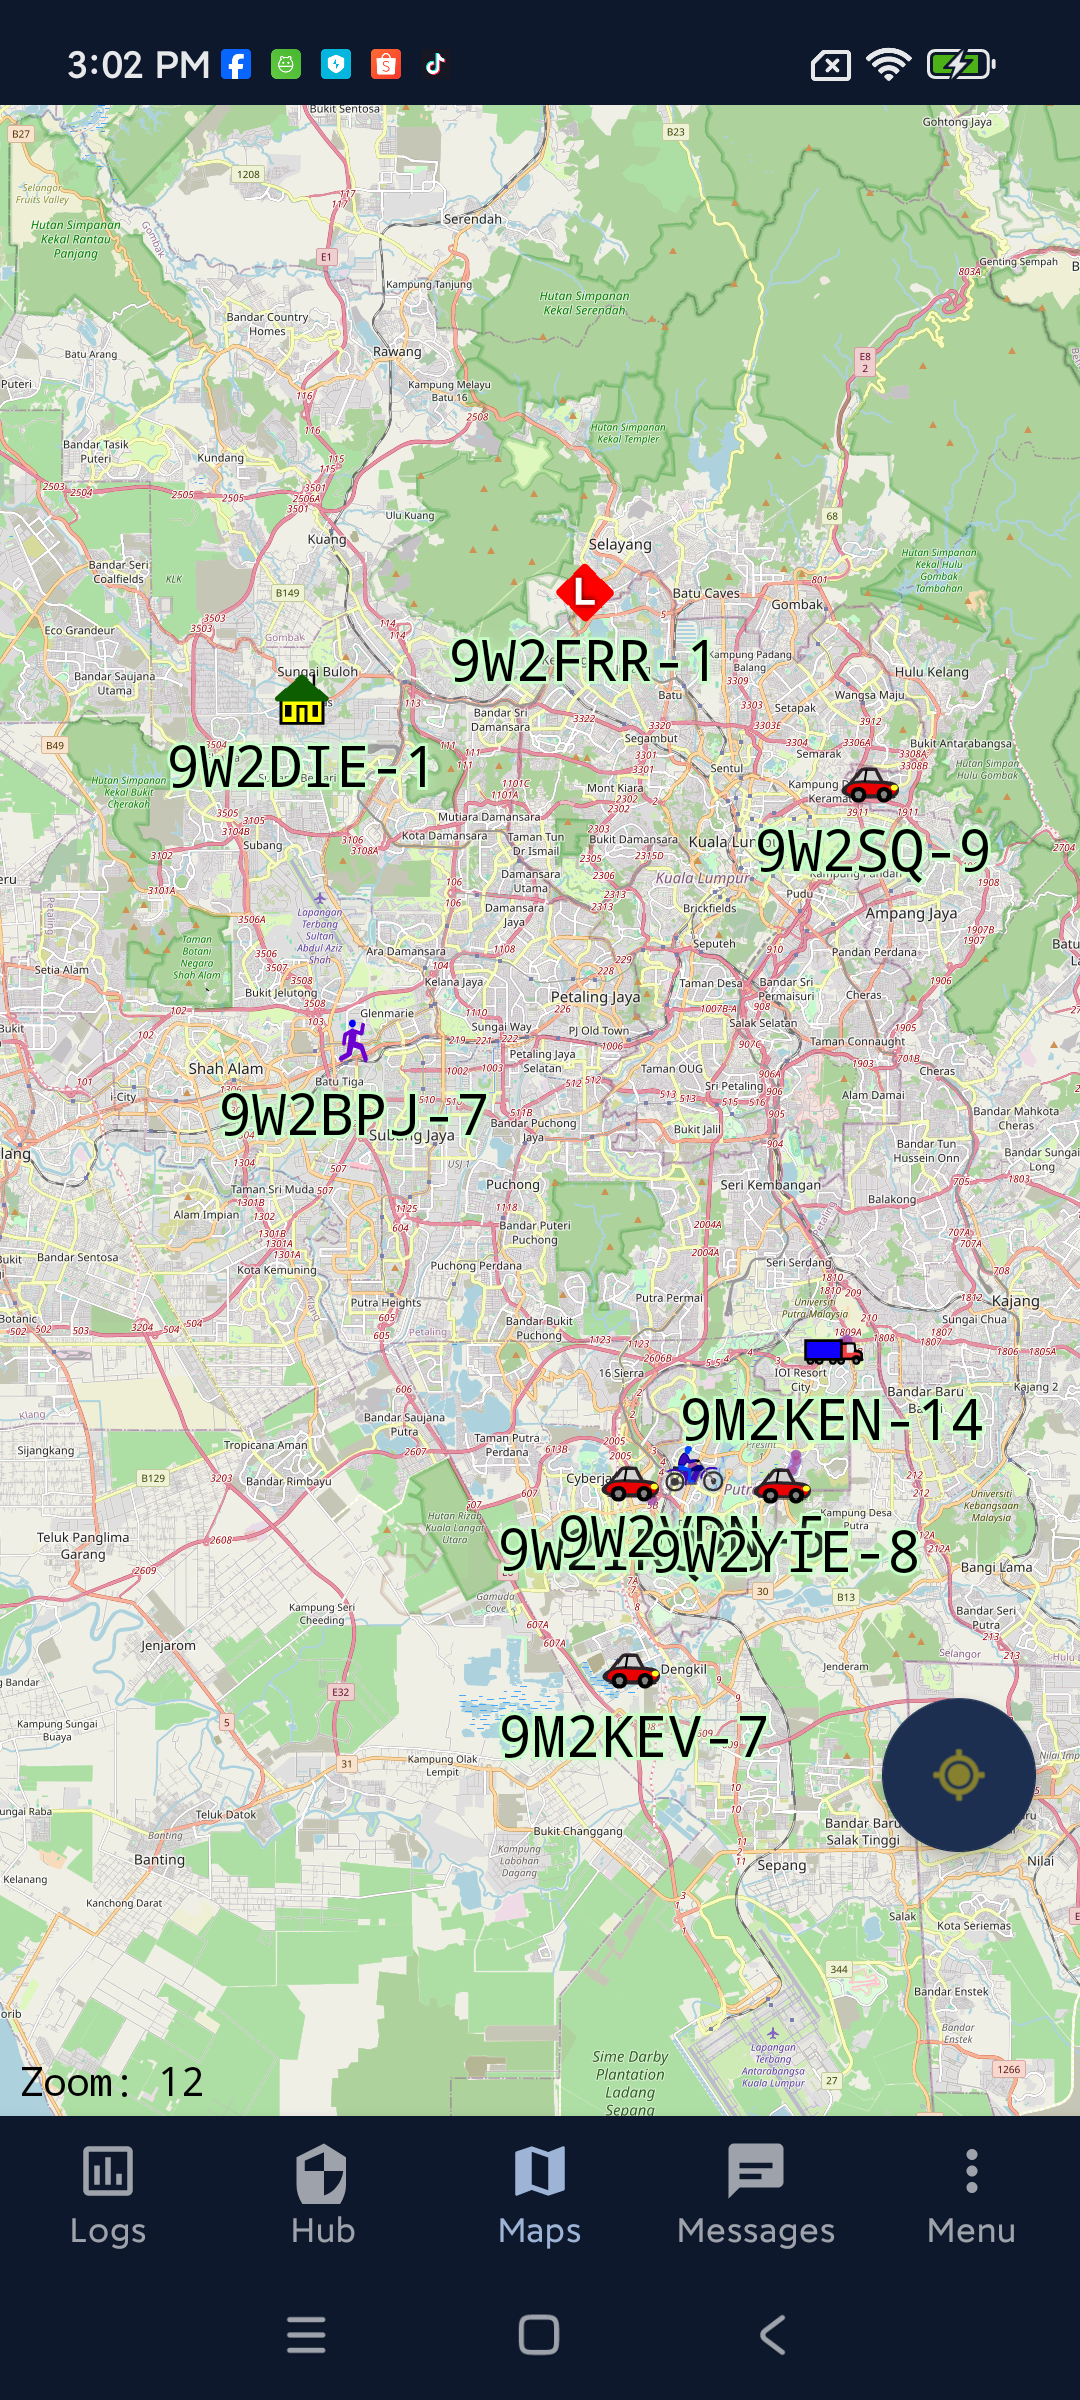
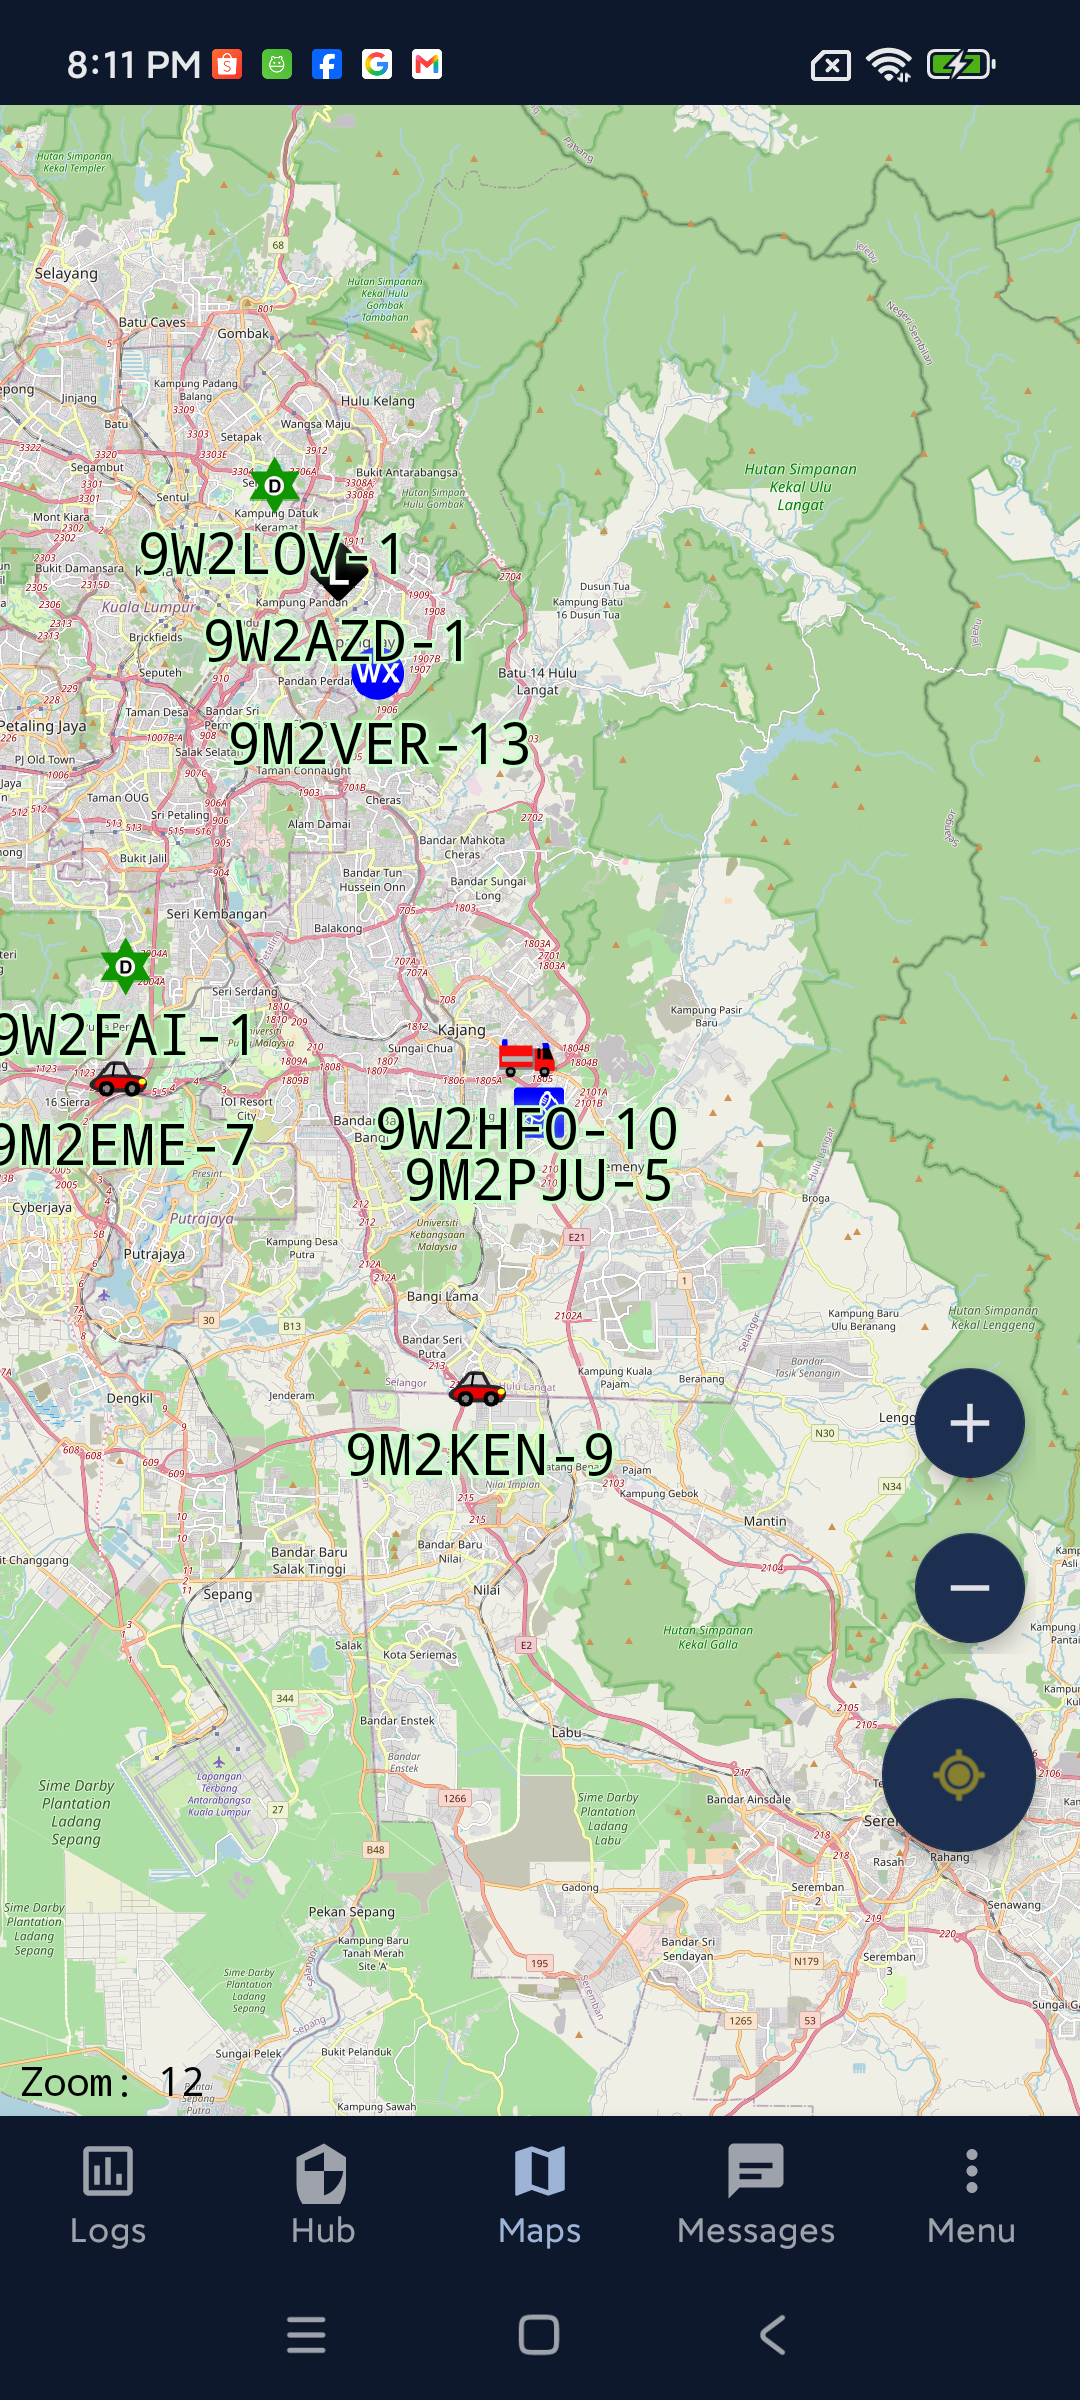
docs: update to v2.0.18, new map screenshot, feature list
Update README and GitHub Pages with v2.0.18 features:
- Map performance improvements (cached Paint, persistent tile cache)
- Material Design FAB zoom controls
- Keyboard obscuring fix (IME inset handling)
- Realtime message replies fix (package-directed broadcasts)

Replace map screenshot with new one showing Material Design
FAB zoom buttons.

diff --git a/docs/index.html b/docs/index.html
@@ -646,7 +646,10 @@
       <li><strong>In-app update checker</strong> -- download and install updates directly from GitHub Releases, with Cloudflare CDN fallback.</li>
       <li><strong>Android 14+ crash fix</strong> -- <code>RECEIVER_NOT_EXPORTED</code> flag for <code>registerReceiver</code>.</li>
       <li><strong>App name and About dialog unified</strong> across all 52 locale files.</li>
-      <li><strong>Version bumped</strong> to <code>v2.0.13</code> (tocall <code>APDR20</code>).</li>
+      <li><strong>Map performance improvements</strong> -- cached Paint objects, persistent tile cache, Material Design FAB zoom controls.</li>
+      <li><strong>Keyboard obscuring fix</strong> -- message input stays visible above soft keyboard via IME inset handling.</li>
+      <li><strong>Realtime message replies fix</strong> -- package-directed broadcasts for Android 14+ compatibility.</li>
+      <li><strong>Version bumped</strong> to <code>v2.0.18</code> (tocall <code>APDR20</code>).</li>
       <li><strong>Comprehensive README and documentation rewrite</strong>.</li>
     </ul>
   </div>

diff --git a/README.md b/README.md
@@ -98,7 +98,16 @@ The direct upstream is [NA7Q's fork](https://github.com/na7q/aprsdroid).
 - **Bottom nav highlighting fix** -- correct tab highlighting with
   `FLAG_ACTIVITY_REORDER_TO_FRONT` across all activities
 - **App name and About dialog unified** across all 52 locale files
-- **Version bumped** to `v2.0.13` (tocall `APDR20`)
+- **Map performance improvements** -- cached Paint objects to eliminate
+  per-frame GC pressure, persistent tile cache, increased in-memory tile
+  cache capacity
+- **Material Design zoom controls** -- replaced legacy MapsForge zoom
+  buttons with Material Design FloatingActionButton mini buttons
+- **Keyboard obscuring fix** -- message input field now stays visible
+  above the soft keyboard via IME inset handling
+- **Realtime message replies fix** -- package-directed broadcasts for
+  Android 14+ `RECEIVER_NOT_EXPORTED` compatibility
+- **Version bumped** to `v2.0.18` (tocall `APDR20`)
 
 > **Changelog:** Per-version release notes are now maintained on the
 > [GitHub Releases](https://github.com/9M2PJU/APRSdroid-9M2PJU-Mod/releases)